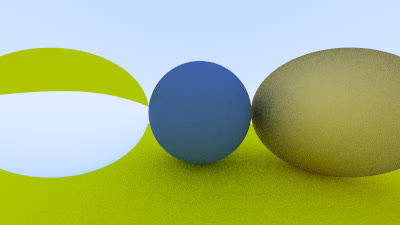
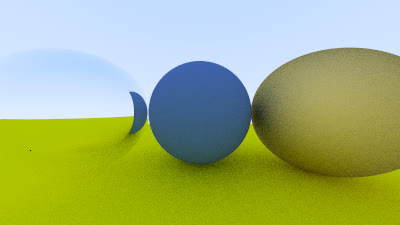
全反射

Changed region(s): [[0.0, 0.1867, 0.39, 0.8089], [0.39, 0.5911, 0.42, 0.6533]]

diff --git a/MyRayTracer/src/Material.h b/MyRayTracer/src/Material.h
@@ -61,9 +61,17 @@ public:
 		float ri = payload.front_face ? (1.0f / refractIndex) : refractIndex;
 
 		vec3 unitDir = rayIn.GetDirection().normalized();
-		vec3 refracted = refract(unitDir, payload.normal, ri);
+		float cosi = std::fmax(-1.0f, fmin(1.0f, dot(-unitDir, payload.normal)));
+		float sini = std::sqrtf(1.0f - cosi * cosi);
 
-		scattered = Ray(payload.p, refracted);
+		bool cannotRefract = ri * sini > 1.0f;
+		vec3 dir;
+		if (cannotRefract) // Total Internal Reflection
+			dir = reflect(unitDir, payload.normal);
+		else
+			dir = refract(unitDir, payload.normal, ri);
+
+		scattered = Ray(payload.p, dir);
 		return true;
 	}
 

diff --git a/MyRayTracer/src/main.cpp b/MyRayTracer/src/main.cpp
@@ -13,7 +13,7 @@ int main()
 
 	auto materialGround = std::make_shared<Lambertian>(color(0.8f, 0.8f, 0.0f));
 	auto materialCenter = std::make_shared<Lambertian>(color(0.1f, 0.2f, 0.5f));
-	auto materialLeft = std::make_shared<Dielectric>(1.5f);
+	auto materialLeft = std::make_shared<Dielectric>(1.00f / 1.33f);
 	auto materialRight = std::make_shared<Metal>(color(0.8f, 0.6f, 0.2f), 1.0f);
 
 	world.add(std::make_shared<Sphere>(vec3(0.0f, -100.5f, -1.0f), 100.0f, materialGround));
